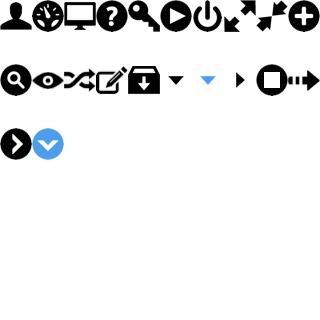
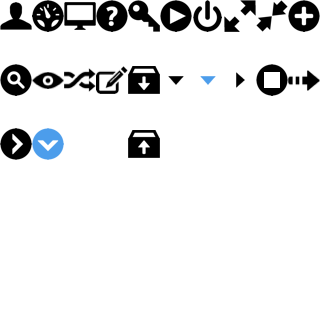
header content affix add, affix fix on styleguide, pbc actions buttons, admin dash actions buttons

Changed region(s): [[0.375, 0.4062, 0.5, 0.5]]

diff --git a/app/assets/stylesheets/_redesign-header.scss b/app/assets/stylesheets/_redesign-header.scss
@@ -1,3 +1,6 @@
+.header.main {
+  height: 60px;
+}
 .header-bar {
   background: $headerBgnd;
   position: fixed;
@@ -172,6 +175,25 @@
 .header-content {
   height:60px;
   margin-top: 30px;
+  background: $white;
+  z-index: 1001;
+  &.affix {
+    position: fixed;
+    top: 30px;
+    margin-top: 0px;
+    height: 36px;
+    @include box-shadow(0 3px 6px -1px rgba(0, 0, 0, 0.2));
+    .breadcrumbs {
+      display: none;
+    }
+    h1 {
+      line-height: 32px;
+      font-size:20px;
+    }
+    .actions {
+      margin-top: 10px;
+    }
+  }
   .btn-group {
     margin-top: 27px;
   }
@@ -233,6 +255,14 @@
               color: $white;
               @include transition(none);
             }
+          }
+        }
+      }
+      &:last-child {
+        &.btn-group {
+          .dropdown-menu {
+            right: 0;
+            left: auto;
           }
         }
       }

diff --git a/app/assets/stylesheets/_icons.scss b/app/assets/stylesheets/_icons.scss
@@ -226,6 +226,14 @@
     background-position:-64px -48px;
   }
 }
+.grcicon-export {
+  @include new-icons();
+  background-position:-64px -64px;
+}
+.grcicon-export-white {
+  @include new-icons();
+  background-position:-64px -80px;
+}
 .grcicon-reg-map {
   @include new-icons();
   background-position:-32px -32px;

diff --git a/app/assets/stylesheets/_redesign-styleguide.scss b/app/assets/stylesheets/_redesign-styleguide.scss
@@ -8,7 +8,7 @@
   width: 220px;
   &.affix {
     position: fixed;
-    top: 10px;
+    top: 40px;
   }
   &.affix-bottom {
     bottom: 270px;

diff --git a/app/assets/stylesheets/_redesign-layout.scss b/app/assets/stylesheets/_redesign-layout.scss
@@ -19,4 +19,7 @@
   h2 {
     margin-bottom: 20px;
   }
+  &.affix {
+    margin-top: 30px;
+  }
 }
